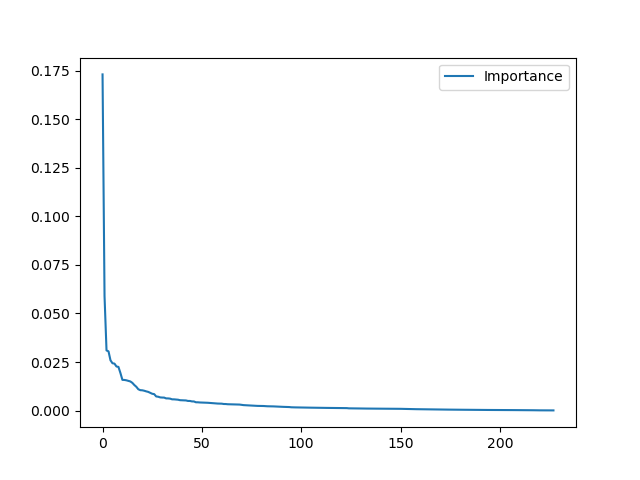
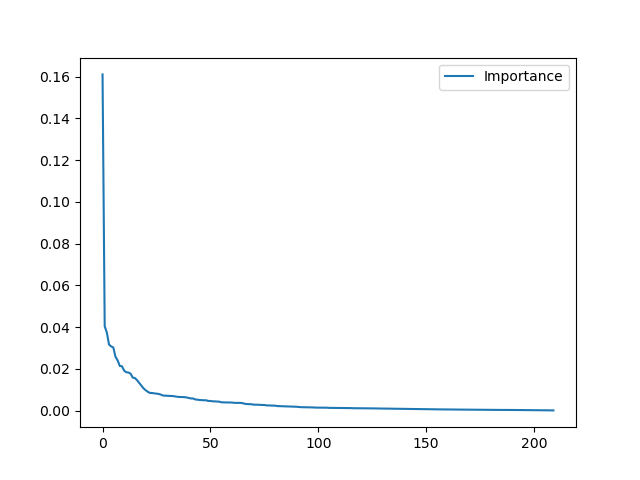
check new threshold on test set, change diag filtering

diff --git a/src/models/evaluate_models.py b/src/models/evaluate_models.py
@@ -25,7 +25,7 @@ def calculate_threshold(classifier, X_train_train, y_train_train, X_val, y_val, 
 
     # calculate the g-mean for each threshold
     gmeans = np.sqrt(tpr * (1-fpr))
-    
+
     # locate the index of the largest g-mean
     ix = nanargmax(gmeans)
     
@@ -108,13 +108,13 @@ def add_number_of_positive_examples(results, datasets):
         results.loc[results["Diag"] == diag, "# of Positive Examples"] = full_dataset_y.sum()
     return results
 
-def check_performance(best_classifiers, datasets, best_thresholds, scores_of_best_classifiers, beta, use_test_set=False):
+def check_performance(best_classifiers, datasets, best_thresholds, scores_of_best_classifiers, beta, use_test_set):
     results = []
     for diag in datasets.keys():
         print(diag)
         classifier = best_classifiers[diag]
         threshold = best_thresholds[diag]
-        if use_test_set:
+        if use_test_set == 1:
             X, y = datasets[diag]["X_test"], datasets[diag]["y_test"]
         else:
             X, y = datasets[diag]["X_val"], datasets[diag]["y_val"]
@@ -130,9 +130,9 @@ def check_performance(best_classifiers, datasets, best_thresholds, scores_of_bes
 
     return results.sort_values(by="ROC AUC", ascending=False)
 
-def get_auc_cv_from_grid_search(reports_dir):
+def get_auc_cv_from_grid_search(reports_dir, diag_cols):
     auc_cv_from_grid_search = pd.read_csv(reports_dir + "df_of_best_classifiers_and_their_scores.csv")
-    auc_cv_from_grid_search = auc_cv_from_grid_search[["Diag", "Best score", "SD of best score", "Score - SD"]]
+    auc_cv_from_grid_search = auc_cv_from_grid_search[auc_cv_from_grid_search["Diag"].isin(diag_cols)][["Diag", "Best score", "SD of best score", "Score - SD"]]
     auc_cv_from_grid_search.columns = ["Diag", "ROC AUC Mean CV", "ROC AUC SD CV", "ROC AUC Mean CV - SD"]
     return auc_cv_from_grid_search
 
@@ -143,7 +143,7 @@ def find_well_performing_diags(results, min_roc_auc_cv):
     ]["Diag"].values
     return well_performing_diags
 
-def main(beta = 3, performance_margin = 0.02, auc_threshold = 0.8):
+def main(beta = 3, performance_margin = 0.02, auc_threshold = 0.8, use_test_set=1):
 
     # Need this to be able to import local packages
     import sys, os, inspect
@@ -155,6 +155,7 @@ def main(beta = 3, performance_margin = 0.02, auc_threshold = 0.8):
     beta = float(beta)
     performance_margin = float(performance_margin)
     auc_threshold = float(auc_threshold)
+    use_test_set = int(use_test_set)
 
     models_dir = "models/"
     data_processed_dir = "data/processed/"
@@ -169,9 +170,12 @@ def main(beta = 3, performance_margin = 0.02, auc_threshold = 0.8):
 
     # Get list of column names with "Diag: " prefix, where ROC AUC is over threshold and variance under threshold
     # ROC AUC reference: https://gpsych.bmj.com/content/gpsych/30/3/207.full.pd
+    # diag_cols = [x for x in sds_of_scores_of_best_classifiers.keys() if  
+    #             sds_of_scores_of_best_classifiers[x] <= performance_margin and 
+    #             scores_of_best_classifiers[x] >= auc_threshold]
+
     diag_cols = [x for x in sds_of_scores_of_best_classifiers.keys() if  
-                sds_of_scores_of_best_classifiers[x] <= performance_margin and 
-                scores_of_best_classifiers[x] >= auc_threshold]
+        scores_of_best_classifiers[x] - sds_of_scores_of_best_classifiers[x] >= auc_threshold]
     print("Diagnoses that passed the threshold: ")
     print(diag_cols)
 
@@ -187,10 +191,10 @@ def main(beta = 3, performance_margin = 0.02, auc_threshold = 0.8):
     dump(best_thresholds, models_dir+'best-thresholds.joblib', compress=1)
 
     # Print performances of models on validation set
-    roc_auc_cv_from_grid_search = get_auc_cv_from_grid_search(reports_dir)
-    performance_table = check_performance(best_classifiers, datasets, best_thresholds, scores_of_best_classifiers, beta=beta, use_test_set=False)
-    performance_table = performance_table.merge(roc_auc_cv_from_grid_search, on="Diag")
-    print(performance_table[['Diag','Recall (Sensitivity)','TNR (Specificity)','ROC AUC Mean CV']].sort_values("ROC AUC Mean CV"))
+    roc_auc_cv_from_grid_search = get_auc_cv_from_grid_search(reports_dir, diag_cols)
+    performance_table = check_performance(best_classifiers, datasets, best_thresholds, scores_of_best_classifiers, beta=beta, use_test_set=use_test_set)
+    print(roc_auc_cv_from_grid_search)
+    print(performance_table[['Diag','Recall (Sensitivity)','TNR (Specificity)','ROC AUC']].sort_values("ROC AUC"))
     performance_table.to_csv(reports_dir+"performance_table_all_features.csv", index=False)    
 
 if __name__ == "__main__":

diff --git a/src/models/identify_feature_subsets.py b/src/models/identify_feature_subsets.py
@@ -127,9 +127,9 @@ def get_importances_from_sfs(sfs_objects):
         importances[diag] = importances_df
     return importances
 
-def get_optimal_nbs_features_from_sfs(sfs_importances):
+def get_optimal_nbs_features_from_sfs(sfs_importances, diag_cols):
     optimal_nbs_features = {}
-    for diag in sfs_importances.keys():
+    for diag in diag_cols:
         importances_df = sfs_importances[diag]
         optimal_nb_features = find_elbow(importances_df["ROC AUC"])
         optimal_nbs_features[diag] = optimal_nb_features
@@ -165,7 +165,7 @@ def write_performances_on_sfs_subsets_to_file(performances):
 
 def get_performances_on_sfs_subsets(sfs_objects, optimal_nbs_features, datasets, best_classifiers, best_thresholds, beta, number_of_features_to_check):
     performances_on_sfs_subsets = {}
-    for diag in sfs_objects.keys():
+    for diag in datasets.keys():
         print(diag)
         performances_on_sfs_subsets[diag] = {}
 
@@ -216,11 +216,12 @@ def get_performances_on_sfs_subsets(sfs_objects, optimal_nbs_features, datasets,
 
     return performances_on_sfs_subsets
 
-def main(beta = 3, auc_threshold = 0.8, sfs_importances_from_file = 1, number_of_features_to_check = 100):
+def main(beta = 3, auc_threshold = 0.8, sfs_importances_from_file = 1, number_of_features_to_check = 100, performance_margin = 0.03):
     beta = float(beta)
     auc_threshold = float(auc_threshold)
     sfs_importances_from_file = int(sfs_importances_from_file)
     number_of_features_to_check = int(number_of_features_to_check)
+    performance_margin = float(performance_margin)
 
     full_dataset = pd.read_csv(data_processed_dir + "item_lvl_w_impairment.csv")
 
@@ -231,8 +232,12 @@ def main(beta = 3, auc_threshold = 0.8, sfs_importances_from_file = 1, number_of
     
     # Get list of column names with "Diag: " prefix, where ROC AUC is over threshold and variance under threshold
     # ROC AUC reference: https://gpsych.bmj.com/content/gpsych/30/3/207.full.pd
+    # diag_cols = [x for x in sds_of_scores_of_best_classifiers.keys() if  
+    #             sds_of_scores_of_best_classifiers[x] <= performance_margin and 
+    #             scores_of_best_classifiers[x] >= auc_threshold]
+
     diag_cols = [x for x in sds_of_scores_of_best_classifiers.keys() if  
-                scores_of_best_classifiers[x] - sds_of_scores_of_best_classifiers[x] >= auc_threshold]
+        scores_of_best_classifiers[x] - sds_of_scores_of_best_classifiers[x] >= auc_threshold]
     print("Diagnoses that passed the threshold: ")
     print(diag_cols)
 
@@ -246,7 +251,7 @@ def main(beta = 3, auc_threshold = 0.8, sfs_importances_from_file = 1, number_of
 
     sfs_objects = get_sfs_objects(sfs_importances_from_file, best_classifiers, datasets, diag_cols, number_of_features_to_check)
     importances_from_sfs = get_importances_from_sfs(sfs_objects)
-    optimal_nbs_features = get_optimal_nbs_features_from_sfs(importances_from_sfs)
+    optimal_nbs_features = get_optimal_nbs_features_from_sfs(importances_from_sfs, diag_cols)
     plot_importances_from_sfs(importances_from_sfs, optimal_nbs_features, number_of_features_to_check)
     performances_on_sfs_subsets = get_performances_on_sfs_subsets(sfs_objects, optimal_nbs_features, datasets, best_classifiers, best_thresholds, beta, number_of_features_to_check)
     write_performances_on_sfs_subsets_to_file(performances_on_sfs_subsets)
